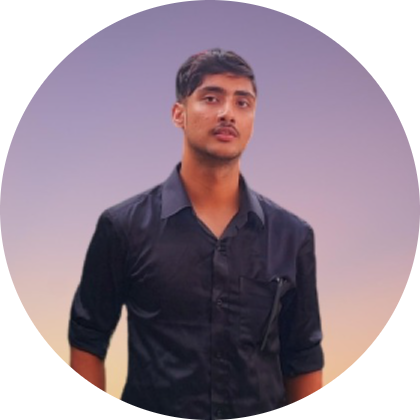
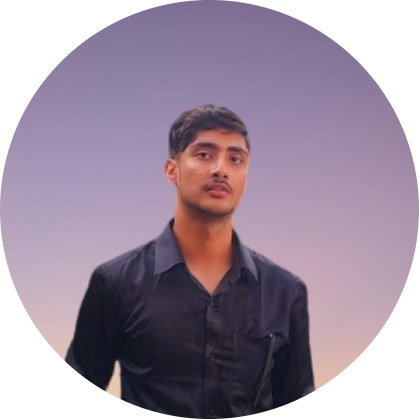
added landing page

diff --git a/src/App.js b/src/App.js
@@ -7,10 +7,47 @@ import { Intro } from './Intro';
 function App() {
   return (<>
      <div className="bg-[#b4a5bb] mb-2 pb-2">
-        <NavBar/>
+       
          <Intro/>
         </div>
-         <Resume/>
+        <NavBar/>
+        <div class="flex justify-center sm:mx:2 md:mx-20">
+          <div class="block p-6 border mt-1 shadow-lg bg-white sm:w-3/4 md:w-2/4 ">
+            <h5 class="text-gray-900 text-2xl leading-tight font-medium flex justify-start mb-3">Basic Information</h5>
+            <div class="grid grid-cols-2 gap-4  ">
+                <div>
+                  <h5 class="text-gray-900 text-md leading-tight font-medium mb-2 flex justify-start mb-3">General Information</h5>
+                  <div class="grid grid-cols-1  text-sm">
+                        <div className='my-1 border-b-4 border-l-4 '><span className='text-[10px]'>Name:</span><br/> Cecil Ghimire</div>
+                        <div className='my-1 border-b-4 border-l-4'><span className='text-[10px]'>Address:</span><br/> Dhapakhel, Lalitpur-24, Nepal</div>
+                        <div className='my-1 border-b-4 border-l-4'><span className='text-[10px]'>Education:</span><br/> Bachelors in Geomatics Engineering, Kathamandu University</div>
+                        <div className='my-1 border-b-4 border-l-4'><span className='text-[10px]'>Programming Language:</span>: <br/>Python, 
+                        
+                        
+                        Javascript<span>
+                          
+                        </span>
+                        
+                        
+                        
+                        
+                        </div>
+                        <div className='my-1 border-b-4 border-l-4'><span className='text-[10px]'>Programming Stacks:</span> <br/>React JS, Node JS, Django, Django REST Developer</div>
+
+                      </div>
+
+                    
+                </div>
+                <div className='ml-10'>
+                  <h5 class="text-gray-900 text-md leading-tight font-medium mt-3 flex justify-start mb-5">About me</h5>
+                    <p className=' text-sm  w-3/4 text-justify'>
+                       I am a hard-working and driven individual who isn't afraid to face a challenge. I'm passionate about my work and I know how to get the job done. I would describe myself as an open and honest person who doesn't believe in misleading other people and tries to be fair in everything I do.
+                    </p>
+                </div>
+              </div>
+            </div>
+       </div>
+        
    </>
   );
 }

diff --git a/src/NavBar.js b/src/NavBar.js
@@ -3,9 +3,9 @@ import React from 'react'
 export const NavBar = () => {
   return (
     <div>
-        <ul class="flex flex-wrap justify-end gap-2 mt-1">
+        <ul class="flex flex-wrap justify-center gap-2 ">
         <li>
-                    <a href="https://www.linkedin.com/"
+                    <a href="https://www.linkedin.com/in/cecil-ghimire-407500201/"
                         class="bg-blue-600 p-2 font-semibold text-white inline-flex items-center space-x-2 rounded"
                         >
                         <svg class="w-5 h-5 fill-current" role="img" viewBox="0 0 256 256"
@@ -22,7 +22,7 @@ export const NavBar = () => {
 
         
                 <li>
-                    <a href="https://github.com/"
+                    <a href="https://github.com/cecililu"
                         class="bg-gray-700 p-2 font-medium text-white inline-flex items-center space-x-2 rounded"
                         >
                         <svg xmlns="http://www.w3.org/2000/svg"

diff --git a/src/Intro.js b/src/Intro.js
@@ -3,13 +3,13 @@ import cecil from './cecil.jpg';
 export const Intro = () => {
   return (
     <div>
-         <div className="flex flex-wrap justify-center mt-20">
+         <div className="flex flex-wrap justify-center p-5 ">
            <img className="object-contain w-60 h-60 rounded-full border border-gray-100 bg-gray-100 shadow-sm" src={cecil} alt="user image" />
            
         </div>
         <div class="grid justify-items-center">
-                    <h1 class="text-5xl font-bold mt-4 text-white">Cecil Ghimire</h1>
-                    <p class="text-xl mt-2 text-gray-200">Aspiring React JS, Node JS, Django, Django REST Developer</p>
+                    <h1 class="text-6xl font-bold mt-4 text-white">Cecil Ghimire</h1>
+                    <p class="sm:text-md md:text-xl mt-2 text-gray-200">Aspiring React JS, Node JS, Django, Django REST Developer</p>
                 </div>
     </div>
   )
